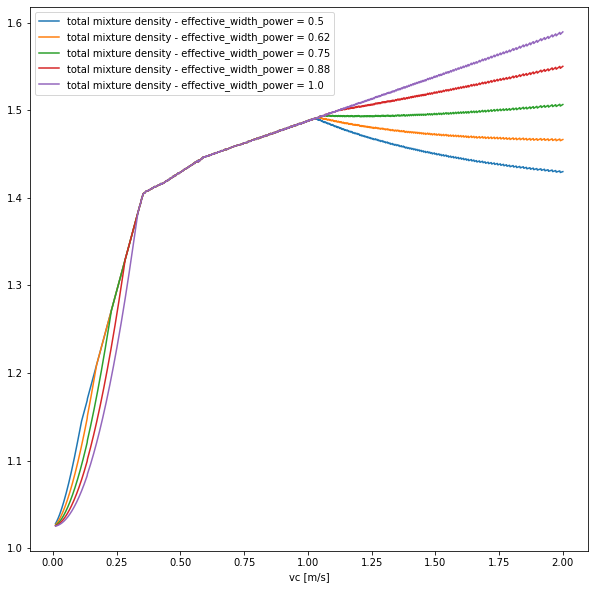
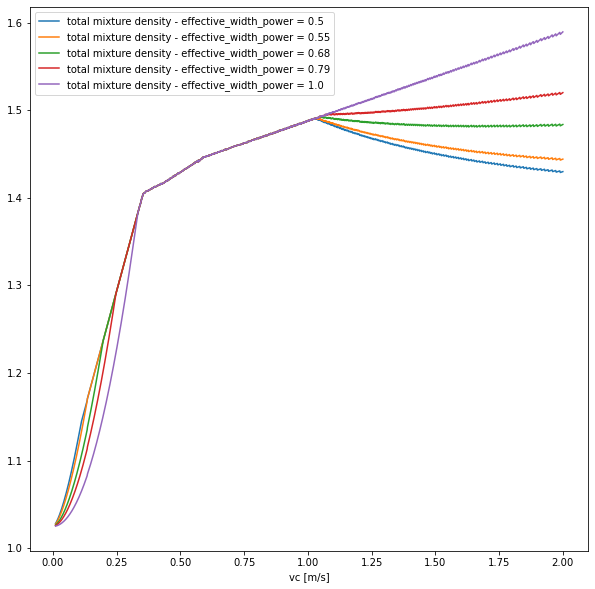
updated README.md

diff --git a/README.md b/README.md
@@ -317,7 +317,6 @@ gives:
 # Effective with power
 tshd = trailing_suction_hopper_dredger()
 tshd.model_comparison('effective_width_power', [0.5, 0.55, 0.68, 0.79, 1.0], explicit_range=True)
-
 ```
 gives:
 ['Comparison of effective width power']('./effective_width_comparison.png')
@@ -327,7 +326,7 @@ tshd = trailing_suction_hopper_dredger()
 tshd.model_comparison('internal_friction_angle', [26/180*np.pi, 45/180*np.pi], N=20)
 ```
 gives:
-['Comparison of internal_friction_angle']('./effective_width_comparison.png')
+['Comparison of internal_friction_angle']('./internal_friction_angle_comparison.png')
 
 __\* For the sake of saving myself some time the above estimations were done with only 1000 nodes and an accuracy of 1kNm. That is why they are not as smooth as one might expect.__
 
